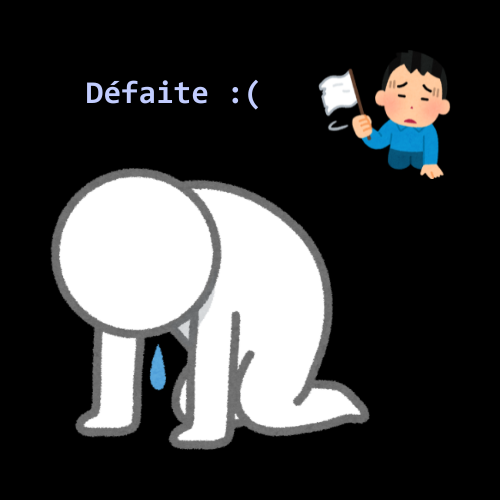
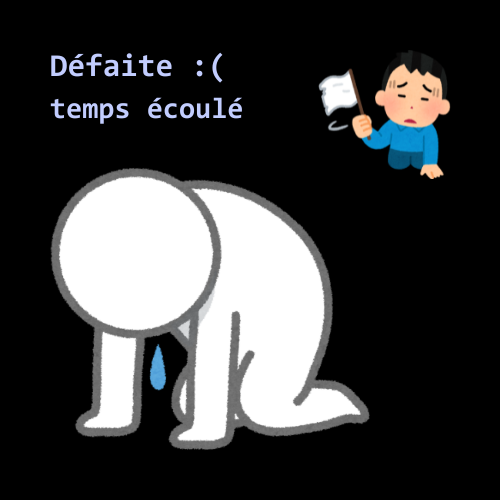
correction erreur

Changed region(s): [[0.09, 0.09, 0.51, 0.24]]

diff --git a/affichage.py b/affichage.py
@@ -259,15 +259,15 @@ class Game:
                 afficher_regles(self.ecran, self.longueur, self.largeur)
                 pygame.display.flip()
                 for event in pygame.event.get():
+                    if event.type == pygame.QUIT:
+                        self.running = False
                     if event.type == pygame.KEYDOWN :
-                        if event.type == pygame.QUIT:
-                            self.running = False
                         if event.key == pygame.K_RETURN:
                             self.affiche_acceuil = False
                             self.temps_debut = time.time()
                 continue
 
-            if (60 + self.temps_debut - time.time()) < 0:
+            if (5 + self.temps_debut - time.time()) < 0:
                 self.jeu_en_cours = False
                 self.joueur.defaite(self.ecran, self.longueur, self.largeur)
 
